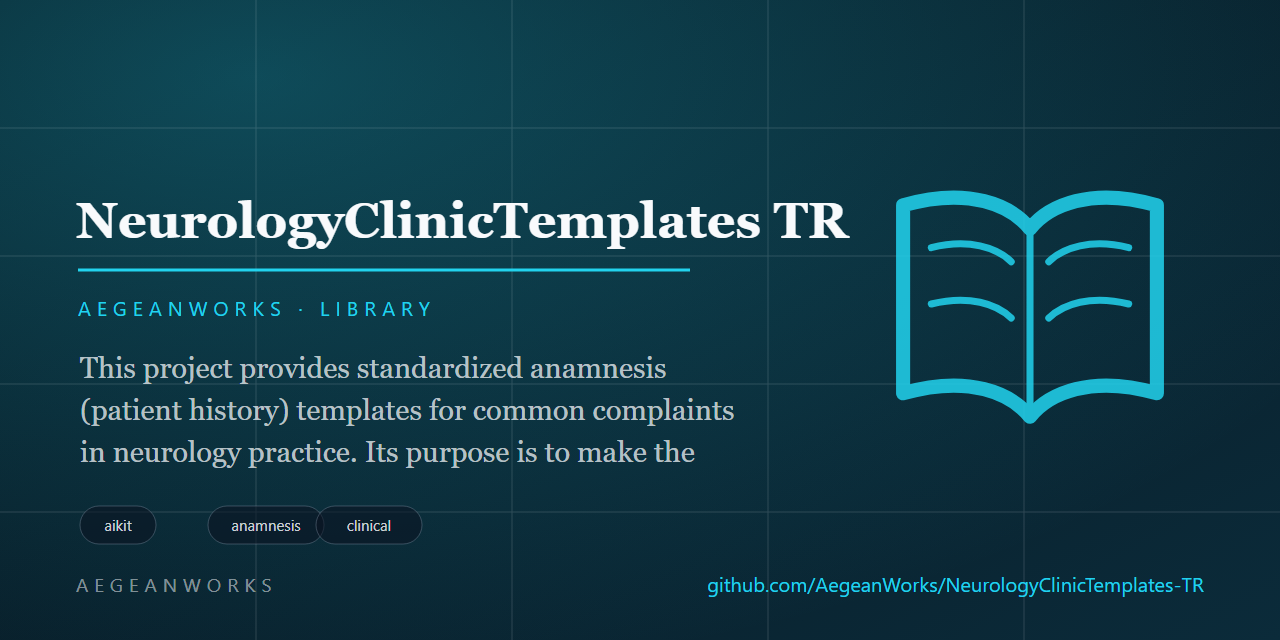
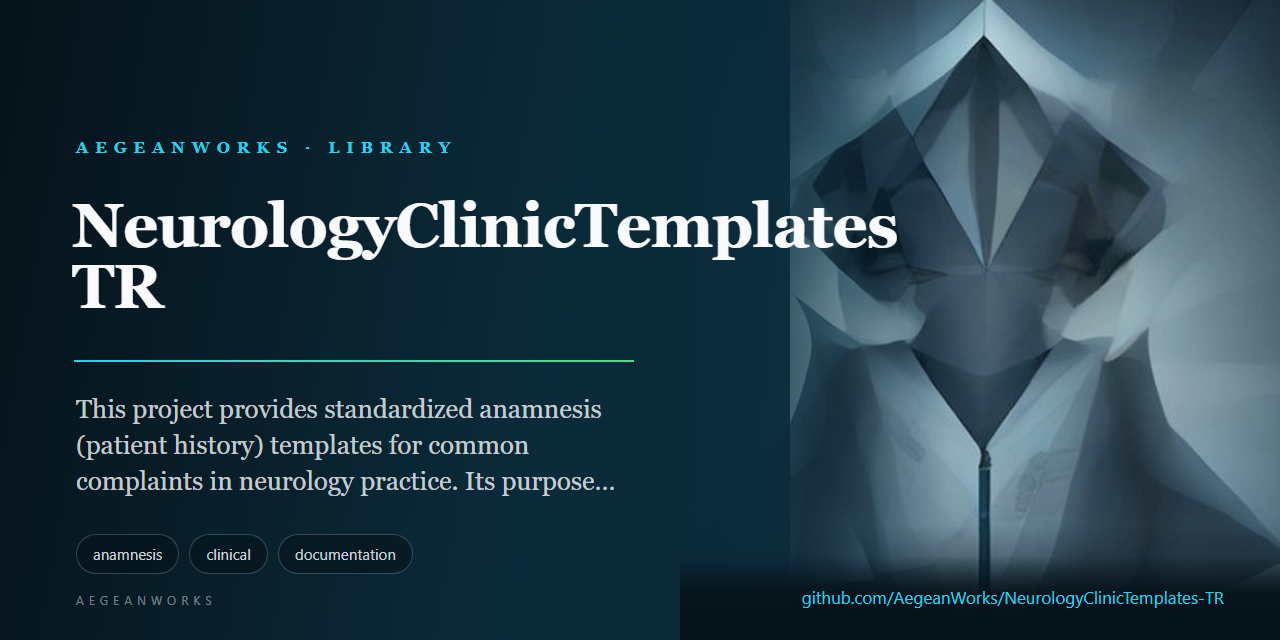
feat(brand): replace procedural marks with reviewed AI-art identities

diff --git a/README.md b/README.md
@@ -1,8 +1,8 @@
 # Neurology Clinic Templates
 
 <!-- aegean:media:start -->
-<p align="center"><img src="assets/logo.svg" alt="NeurologyClinicTemplates-TR logo" width="96" height="96"></p>
-<p align="center"><img src="assets/social-preview.svg" alt="NeurologyClinicTemplates-TR social preview" width="100%"></p>
+<p align="center"><img src="assets/logo.png" alt="NeurologyClinicTemplates-TR logo" width="96" height="96"></p>
+<p align="center"><img src="assets/social-preview.png" alt="NeurologyClinicTemplates-TR social preview" width="100%"></p>
 <!-- aegean:media:end -->
 
 [![AIKit Integrated](https://img.shields.io/badge/AIKit-integrated-6f42c1)](https://github.com/AegeanWorks/AIKit)
